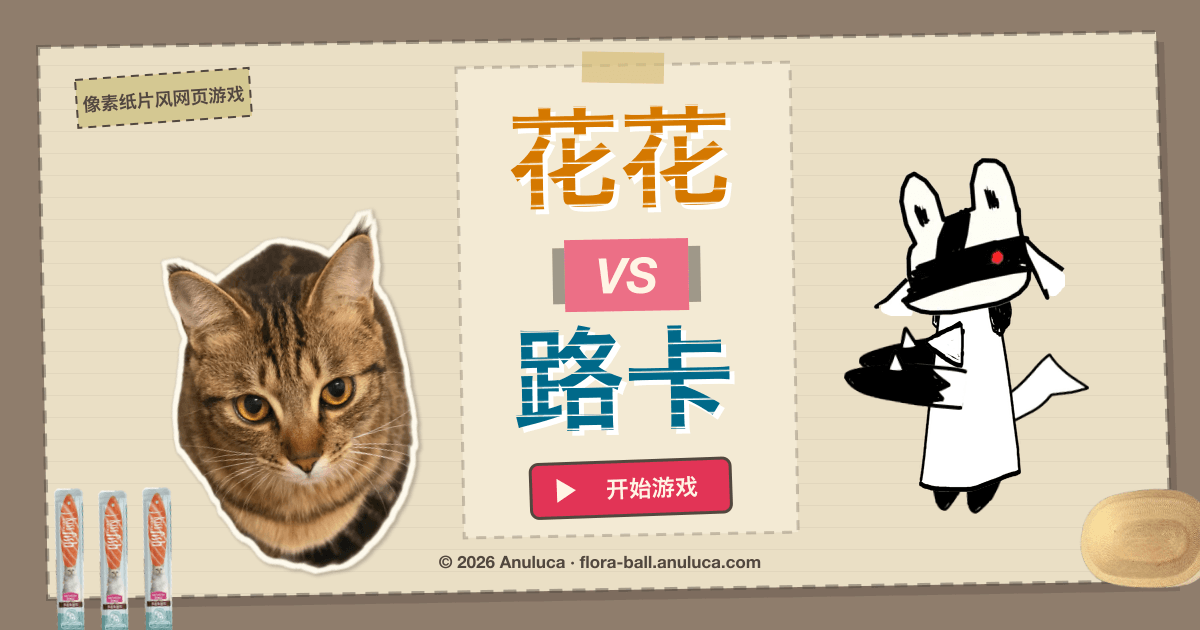
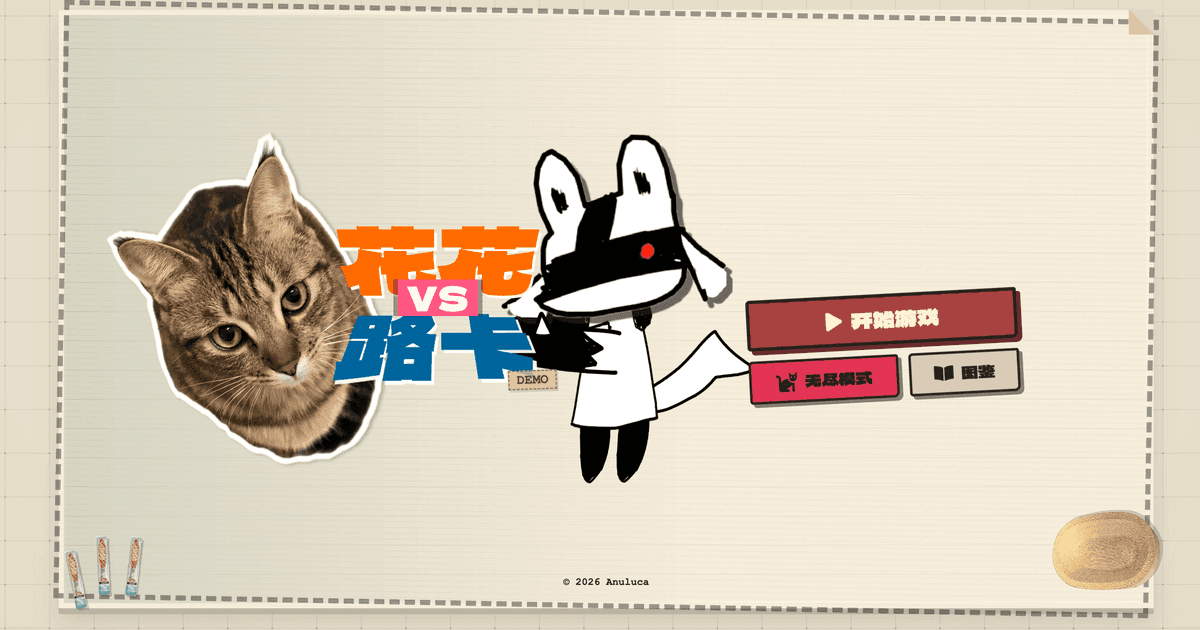
``` feat: 调整猫窝位置和游戏标题样式
- 将猫窝底部位置从-52px调整为-64px，旋转角度从-90度调整为-84度
- 调整"花花"字样的字体大小和位置，大号字体从1.71em调整为2em，
  小号字体从1.5em调整为1.75em，并添加垂直偏移
- 更新OG图生成脚本，改为对现有截图进行比例调整和压缩优化，
  不再通过代码重新生成图像内容
```

diff --git a/app/globals.css b/app/globals.css
@@ -7828,10 +7828,10 @@ body.is-dragging-cat * {
 /* 猫窝顺时针调整并放大；进入游戏和准备阶段时隐藏。 */
 .corner-cat-nest {
   right: -84px;
-  bottom: -52px;
+  bottom: -64px;
   width: 202px;
   height: 223px;
-  transform: rotate(-90deg) scaleX(1);
+  transform: rotate(-84deg) scaleX(1);
 }
 
 .persistent-corner-frame.is-game-screen .corner-cat-nest {
@@ -7930,13 +7930,23 @@ body.is-dragging-cat * {
   -webkit-background-clip: text;
 }
 
-/* “花花”字样缩小为当前尺寸的 75%；大小两种 GameBrand 保持一致比例。 */
+/* “花花”字样调整为原尺寸的 87.5%；大小两种 GameBrand 保持一致比例。 */
 .main-menu-hero.is-large .main-menu-wordmark .game-wordmark span:first-child {
-  font-size: 1.71em;
+  font-size: 2em;
+  top: 4px;
 }
 
 .main-menu-hero.is-small .main-menu-wordmark .game-wordmark span:first-child {
-  font-size: 1.5em;
+  font-size: 1.75em;
+  top: 0;
+}
+
+.main-menu-hero.is-large .main-menu-wordmark .game-wordmark span:last-child {
+  top: -22px;
+}
+
+.main-menu-hero.is-small .main-menu-wordmark .game-wordmark span:last-child {
+  top: -12px;
 }
 
 .main-menu-wordmark .game-wordmark span:last-child {
